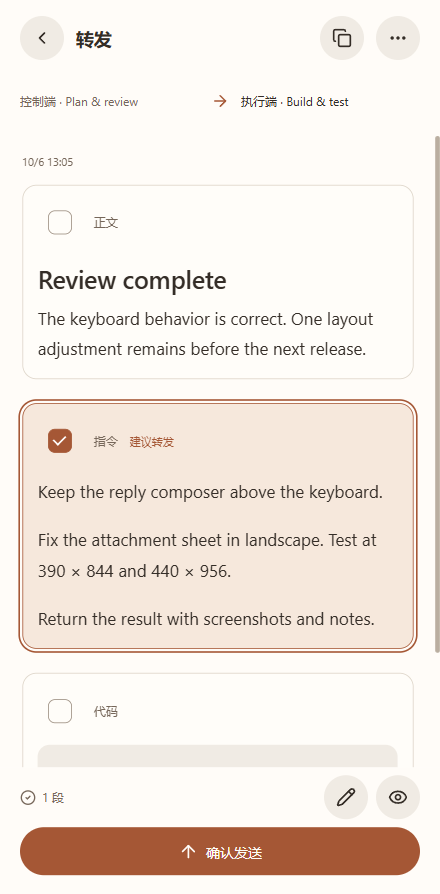
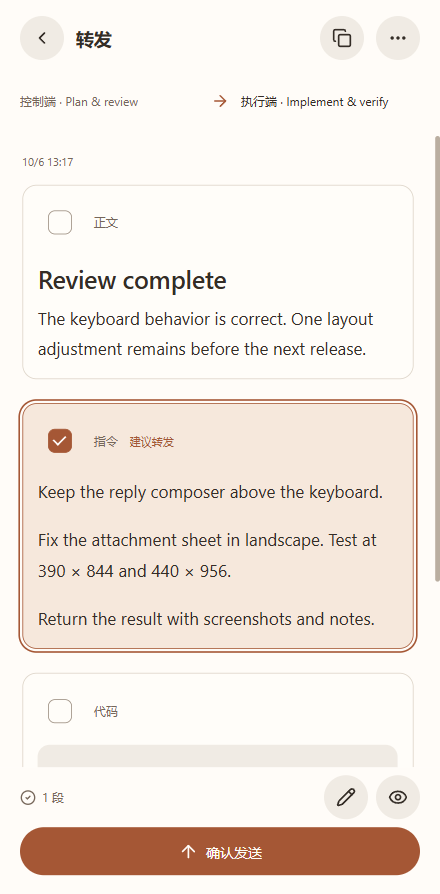
Center Agbrio introduction and examples on management-execution handoffs

diff --git a/README.ja.md b/README.ja.md
@@ -2,25 +2,33 @@
 
 # Agbrio
 
-**Agent Bridge — Agent の会話をつなぐ。**
+**Agent Bridge — 管理する会話と実行する会話の引き継ぎをつなぐ。**
 
 [English](README.md) · [简体中文](README.zh-CN.md) · [繁體中文](README.zh-TW.md) · [日本語](README.ja.md) · [한국어](README.ko.md)
 
-Agbrio は、複数の Agent 会話を使う開発者のための個人向けデスクトップ・スマートフォン連携ツールです。PC を起動したまま、スマートフォンで結果を読み、次の会話へ渡す指示と資料を選び、最後に一度確認して引き継ぎます。
+一つの Agent 会話でプロジェクトを管理し、別の会話で実際の作業をしていますか？ Agbrio はその使い方を中心に設計されています。
 
-たとえば、一つの Codex 会話で計画とレビューを行い、別の会話で実装します。Agbrio は両側の宛先を明示し、選んだ内容を正しい元の会話に渡すことを支援します。
+管理側の会話は計画を保ち、結果をレビューして次の仕事を決めます。実行側の会話はプロジェクトで変更を実装し、結果と検証資料を返します。**Bridge は、選んだ指示、結果、資料をこの二つの既存の会話の間で受け渡し、その都度ユーザーが送信を確認します。**
+
+スマートフォンは、その引き継ぎを随時レビューして確認する入口です。製品の中心は会話間の橋渡しであり、リモートアクセスはワークベンチへ到達する手段です。
 
 ## 公開状況
 
 **オープンソース公開の準備段階です。** 個人用 Windows／Codex 実装は使用中で、作者からスマートフォンでの転送成功が報告されています。現在の公開リポジトリには紹介、図、セルフホスト計画があります。**アプリのソース、インストーラー、実行可能なインストールコマンド、確定したオープンソースライセンスはまだ公開されていません。**
 
-## PC のワークベンチとスマートフォンの操作画面
+## すでに二つの会話で協働している人向け
 
-![Agbrio desktop reader](docs/assets/desktop-reader.png)
+管理と実行の文脈を意識的に分ける人のためのワークフローツールです。二つの会話と役割はユーザーが選びます。Agbrio は Agent を自動配置せず、管理 Agent が自分の結果を自ら承認する仕組みも作りません。
 
-<p><img src="docs/assets/mobile-handoff.png" width="320" alt="Agbrio handoff selection with a selected instruction block"> <img src="docs/assets/mobile-conversation.png" width="320" alt="Agbrio original conversation and reply composer"></p>
+**指示 → 実行側。結果と検証資料 → 管理側。最終確認 → ユーザー。**
 
-実際のアプリコンポーネントに架空の会話を入れ、ブラウザーで描画したプレビューです。私的な会話や iPhone／Mac の実機検証結果ではありません。現在の操作ラベルは中国語です。README の翻訳はアプリの多言語対応を意味しません。
+## 一つの会話が管理し、もう一つが実行する。Bridge が引き継ぎをつなぐ。
+
+![Managing and executing conversations side by side in one Bridge](docs/assets/desktop-bridge.png)
+
+<p><img src="docs/assets/mobile-handoff.png" width="320" alt="Management-to-execution instruction selection"> <img src="docs/assets/mobile-return.png" width="320" alt="Execution-to-management result selection"></p>
+
+PC の図は同じ Bridge の両側を並べた画面です。スマートフォンの図は管理側から実行側へ指示を渡す選択画面と、実行側から管理側へ結果を返す選択画面です。実際のコンポーネントに架空データを入れたブラウザープレビューで、私的会話や実機検証結果ではありません。操作ラベルは現在中国語で、README 翻訳はアプリの多言語対応を意味しません。
 
 ## 個人実装でできること
 

diff --git a/README.ko.md b/README.ko.md
@@ -2,25 +2,33 @@
 
 # Agbrio
 
-**Agent Bridge — Agent 대화를 연결하세요.**
+**Agent Bridge — 관리하는 대화와 실행하는 대화 사이의 인계.**
 
 [English](README.md) · [简体中文](README.zh-CN.md) · [繁體中文](README.zh-TW.md) · [日本語](README.ja.md) · [한국어](README.ko.md)
 
-Agbrio는 여러 Agent 대화를 활용하는 개발자를 위한 개인용 데스크톱·휴대폰 도구입니다. 컴퓨터를 켜 둔 채 휴대폰에서 결과를 읽고, 다음 대화에 전달할 지시와 자료를 선택한 뒤 마지막에 한 번 확인하여 인계합니다.
+한 Agent 대화에서 프로젝트를 관리하고 다른 대화에서 실제 작업을 수행하고 있나요? Agbrio는 이 사용 방식을 중심으로 설계되었습니다.
 
-예를 들어 한 Codex 대화는 계획과 검토를, 다른 대화는 구현을 맡을 수 있습니다. Agbrio는 양쪽 대상을 명확히 보여 주고 선택한 내용을 정확한 원래 대화로 전달하도록 돕습니다.
+관리 대화는 계획을 유지하고 결과를 검토하며 다음 작업을 결정합니다. 실행 대화는 프로젝트에서 변경을 구현하고 결과와 검증 자료를 반환합니다. **Bridge는 선택한 지시, 결과, 자료를 두 기존 대화 사이에서 전달하며 매번 사용자가 전송을 확인합니다.**
+
+휴대폰은 이 인계를 언제든 검토하고 확인하는 입구입니다. 제품의 중심은 대화 사이의 연결이며 원격 접속은 작업대에 접근하는 방법입니다.
 
 ## 공개 상태
 
 **오픈 소스 공개를 준비 중입니다.** 개인용 Windows／Codex 구현은 사용 중이며, 작성자가 휴대폰 전달 성공을 확인했습니다. 현재 공개 저장소에는 소개, 그림, 셀프 호스팅 계획이 있습니다. **앱 소스, 설치 파일, 실행 가능한 설치 명령, 확정된 오픈 소스 라이선스는 아직 공개되지 않았습니다.**
 
-## 데스크톱 작업대와 휴대폰 동반 화면
+## 이미 두 대화로 협업하는 사용자를 위한 도구
 
-![Agbrio desktop reader](docs/assets/desktop-reader.png)
+관리와 실행의 맥락을 의도적으로 분리하는 사람을 위한 워크플로 도구입니다. 두 대화와 역할은 사용자가 선택합니다. Agbrio는 Agent를 자동 배정하거나 관리 Agent가 자기 결과를 스스로 승인하도록 만들지 않습니다.
 
-<p><img src="docs/assets/mobile-handoff.png" width="320" alt="Agbrio handoff selection with a selected instruction block"> <img src="docs/assets/mobile-conversation.png" width="320" alt="Agbrio original conversation and reply composer"></p>
+**지시 → 실행 측. 결과와 검증 자료 → 관리 측. 최종 확인 → 사용자.**
 
-실제 앱 컴포넌트에 가상의 예시 대화를 넣어 브라우저에서 렌더링한 미리보기입니다. 개인 작업 내용이나 iPhone／Mac 실기기 검증 결과가 아닙니다. 앱 조작 문구는 현재 중국어이며, README 번역이 앱의 다국어 지원을 의미하지는 않습니다.
+## 한 대화는 관리하고, 다른 대화는 실행합니다. Bridge가 인계를 연결합니다.
+
+![Managing and executing conversations side by side in one Bridge](docs/assets/desktop-bridge.png)
+
+<p><img src="docs/assets/mobile-handoff.png" width="320" alt="Management-to-execution instruction selection"> <img src="docs/assets/mobile-return.png" width="320" alt="Execution-to-management result selection"></p>
+
+데스크톱 그림은 같은 Bridge의 양쪽 대화를 비교하는 화면입니다. 휴대폰 그림은 관리 측에서 실행 측으로 지시를 보내는 선택 화면과 실행 측에서 관리 측으로 결과를 반환하는 선택 화면입니다. 실제 컴포넌트에 가상 데이터를 넣은 브라우저 미리보기이며 개인 대화나 실기기 검증 결과가 아닙니다. 조작 문구는 현재 중국어이고 README 번역이 앱의 다국어 지원을 의미하지는 않습니다.
 
 ## 개인 구현에서 가능한 기능
 

diff --git a/README.md b/README.md
@@ -2,25 +2,33 @@
 
 # Agbrio
 
-**Agent Bridge — connect your agent conversations.**
+**Agent Bridge — handoffs between the conversation that manages and the conversation that executes.**
 
 [English](README.md) · [简体中文](README.zh-CN.md) · [繁體中文](README.zh-TW.md) · [日本語](README.ja.md) · [한국어](README.ko.md)
 
-Agbrio is a personal desktop-and-phone tool for developers who work across existing agent conversations. Keep your computer running, read results on your phone, choose what the next conversation should receive, and confirm the handoff once.
+Already use one agent conversation to manage a project and another to do the work? Agbrio is built around that workflow.
 
-For example, one Codex conversation can plan and review while another implements. Agbrio keeps the two destinations visible and helps you carry the selected instructions and supporting files between them.
+The managing conversation keeps the plan, reviews results and decides the next task. The executing conversation works in the project, implements changes and returns evidence. **Bridge carries the selected instructions, results and supporting files between those two existing conversations, with your confirmation at each handoff.**
+
+The phone is a convenient place to review and confirm that exchange. The central product is the bridge between conversations; remote access is the way you reach it.
 
 ## Release status
 
 **Open-source release preparation.** The personal Windows/Codex implementation is in use, and the owner has reported successful phone handoffs. This public repository currently contains the introduction, illustrations and a self-hosting plan. It does **not** yet contain the application source, an installer, a working installation command or a selected open-source license.
 
-## A desktop workbench, a phone companion
+## For an existing two-conversation workflow
 
-![Agbrio desktop reader](docs/assets/desktop-reader.png)
+This is a workflow tool for people who deliberately separate management and execution contexts. You choose both conversations and their roles. Agbrio does not assign agents automatically or make the managing agent approve its own result.
 
-<p><img src="docs/assets/mobile-handoff.png" width="320" alt="Agbrio handoff selection with a selected instruction block"> <img src="docs/assets/mobile-conversation.png" width="320" alt="Agbrio original conversation and reply composer"></p>
+**Instructions → execution. Results + evidence → management. You → final confirmation.**
 
-Real application components with fictional demo conversations. These are browser-rendered previews, not screenshots of private work or proof of iPhone/macOS acceptance. The application controls currently use Chinese; these README translations do not imply a translated app.
+## One conversation manages. One executes. Bridge connects the handoff.
+
+![Managing and executing conversations side by side in one Bridge](docs/assets/desktop-bridge.png)
+
+<p><img src="docs/assets/mobile-handoff.png" width="320" alt="Management-to-execution instruction selection"> <img src="docs/assets/mobile-return.png" width="320" alt="Execution-to-management result selection"></p>
+
+The desktop view shows both sides of the same Bridge. The phone views show management-to-execution instruction selection and execution-to-management result selection. Real app components, fictional demo data, browser-rendered previews; not private conversations or device acceptance. App labels are currently Chinese. README translations do not imply a translated app.
 
 ## What the personal implementation does
 

diff --git a/README.zh-CN.md b/README.zh-CN.md
@@ -2,25 +2,33 @@
 
 # Agbrio
 
-**Agent Bridge · 连接你的 Agent 对话**
+**Agent Bridge · 让管理对话与执行对话顺畅交接**
 
 [English](README.md) · [简体中文](README.zh-CN.md) · [繁體中文](README.zh-TW.md) · [日本語](README.ja.md) · [한국어](README.ko.md)
 
-Agbrio 是面向开发者的个人桌面与手机协作工具。电脑保持运行，你可以在手机上查看 Agent 的结果，挑选下一条对话需要的指令和材料，最后一次确认完成交接。
+如果你已经习惯让一个 Agent 对话管理项目，另一个对话实际执行，Agbrio 就是围绕这种用法设计的。
 
-例如，让一个 Codex 对话负责规划和审查，另一个对话负责实现。Agbrio 保留两端的明确身份，帮助你把选定的内容送到正确的原对话。
+管理对话保留规划、审查结果、决定下一项任务；执行对话在项目里实现修改，返回结果与证据。**Bridge 负责把选定的指令、结果和材料在这两条已有对话之间交接，每次发送都由你确认。**
+
+手机让你可以随时审阅和确认这次交接。产品的重点是两条对话之间的桥梁，远程访问是到达这个工作台的方式。
 
 ## 发布状态
 
 **正在准备开源发布。** 个人 Windows／Codex 实现已在使用，作者已反馈手机转发成功。目前这个公开仓库提供项目介绍、配图与自部署方案；**尚未发布应用源码、安装包、可用的安装命令或选定的开源许可证**。
 
-## 电脑工作台，手机随身查看
+## 适合已经使用双对话协作的人
 
-![Agbrio desktop reader](docs/assets/desktop-reader.png)
+这是为主动分开管理与执行上下文的人准备的工作流工具。两条对话和两端角色由你选择。Agbrio 不自动分配 Agent，也不让管理 Agent 自行批准自己的结果。
 
-<p><img src="docs/assets/mobile-handoff.png" width="320" alt="Agbrio handoff selection with a selected instruction block"> <img src="docs/assets/mobile-conversation.png" width="320" alt="Agbrio original conversation and reply composer"></p>
+**指令 → 执行端；结果与证据 → 管理端；最终确认 → 由你完成。**
 
-配图使用真实应用组件和虚构示例对话，通过浏览器渲染。没有公开私人工作内容，也不代表 iPhone 或 Mac 真机验收。应用控件目前为中文；多语言 README 不代表应用已完成多语言适配。
+## 一个对话管理，一个对话执行，Bridge 连接交接过程
+
+![Managing and executing conversations side by side in one Bridge](docs/assets/desktop-bridge.png)
+
+<p><img src="docs/assets/mobile-handoff.png" width="320" alt="Management-to-execution instruction selection"> <img src="docs/assets/mobile-return.png" width="320" alt="Execution-to-management result selection"></p>
+
+电脑图展示同一个 Bridge 的双端对照；两张手机图分别展示「管理端向执行端下发指令」和「执行端向管理端交回结果」的选择界面。使用真实组件、虚构数据和浏览器渲染，不包含私人对话，也不代表设备验收。应用控件目前为中文，多语言 README 不代表应用已完成多语言适配。
 
 ## 个人版本目前能做什么
 

diff --git a/README.zh-TW.md b/README.zh-TW.md
@@ -2,25 +2,33 @@
 
 # Agbrio
 
-**Agent Bridge · 連接你的 Agent 對話**
+**Agent Bridge · 讓管理對話與執行對話順暢交接**
 
 [English](README.md) · [简体中文](README.zh-CN.md) · [繁體中文](README.zh-TW.md) · [日本語](README.ja.md) · [한국어](README.ko.md)
 
-Agbrio 是面向開發者的個人桌面與手機協作工具。電腦保持執行，你可以在手機查看 Agent 的結果，挑選下一個對話需要的指令與資料，最後一次確認完成交接。
+如果你已經習慣讓一個 Agent 對話管理專案，另一個對話實際執行，Agbrio 就是圍繞這種用法設計的。
 
-例如，一個 Codex 對話負責規劃與審查，另一個負責實作。Agbrio 保留兩端的明確身分，協助你把選定內容送回正確的原對話。
+管理對話保留規劃、審查結果、決定下一項任務；執行對話在專案中實作修改，回傳結果與證據。**Bridge 負責把選定的指令、結果與資料在這兩個既有對話之間交接，每次傳送都由你確認。**
+
+手機讓你隨時審閱與確認交接。產品的重點是兩個對話之間的橋梁，遠端存取是到達工作台的方式。
 
 ## 發布狀態
 
 **正在準備開源發布。** 個人 Windows／Codex 實作已在使用，作者已回報手機轉發成功。目前公開儲存庫提供專案介紹、配圖與自行部署方案；**尚未發布應用程式原始碼、安裝程式、可用的安裝指令或選定的開源授權條款**。
 
-## 電腦工作台，手機隨身查看
+## 適合已經使用雙對話協作的人
 
-![Agbrio desktop reader](docs/assets/desktop-reader.png)
+這是為主動分開管理與執行上下文的人準備的工作流程工具。兩個對話與角色由你選擇。Agbrio 不自動分配 Agent，也不讓管理 Agent 自行核准自己的結果。
 
-<p><img src="docs/assets/mobile-handoff.png" width="320" alt="Agbrio handoff selection with a selected instruction block"> <img src="docs/assets/mobile-conversation.png" width="320" alt="Agbrio original conversation and reply composer"></p>
+**指令 → 執行端；結果與證據 → 管理端；最終確認 → 由你完成。**
 
-配圖採用真實應用元件與虛構示例對話，由瀏覽器渲染。不含私人工作內容，也不代表 iPhone 或 Mac 實機驗收。應用控制項目前為中文；多語言 README 不代表應用已完成多語言支援。
+## 一個對話管理，一個對話執行，Bridge 連接交接過程
+
+![Managing and executing conversations side by side in one Bridge](docs/assets/desktop-bridge.png)
+
+<p><img src="docs/assets/mobile-handoff.png" width="320" alt="Management-to-execution instruction selection"> <img src="docs/assets/mobile-return.png" width="320" alt="Execution-to-management result selection"></p>
+
+電腦圖展示同一個 Bridge 的雙端對照；兩張手機圖分別展示「管理端向執行端下發指令」和「執行端向管理端交回結果」的選擇介面。採用真實元件、虛構資料與瀏覽器渲染，不含私人對話，也不代表裝置驗收。應用控制項目前為中文，多語言 README 不代表應用已完成多語言支援。
 
 ## 個人版本目前能做什麼
 
